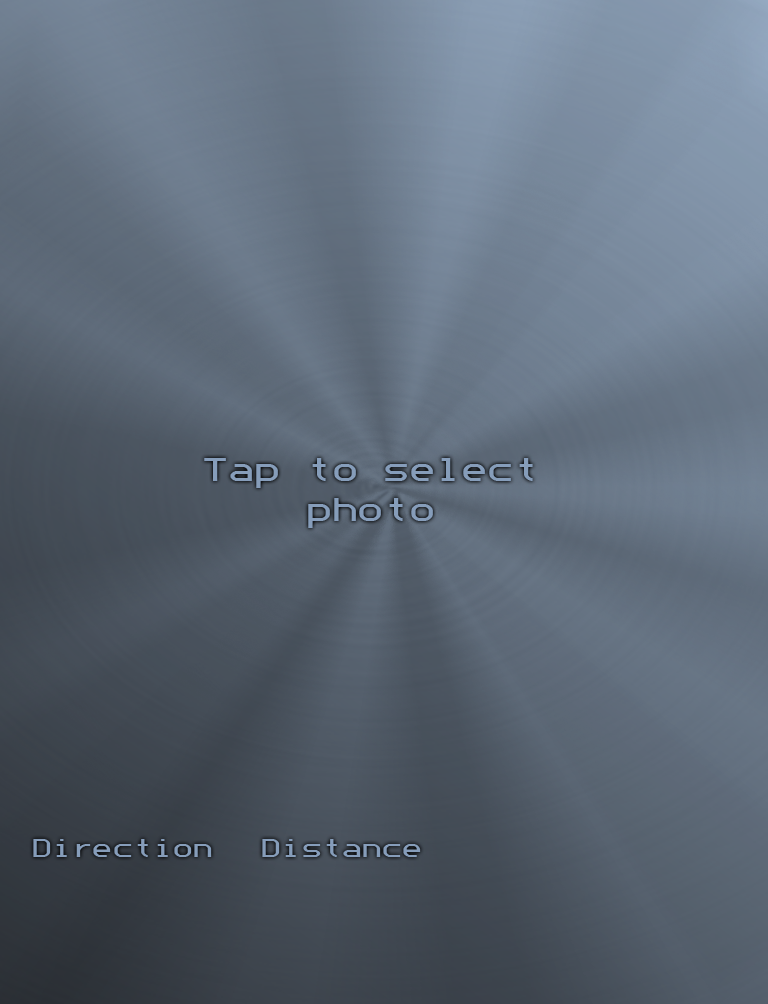
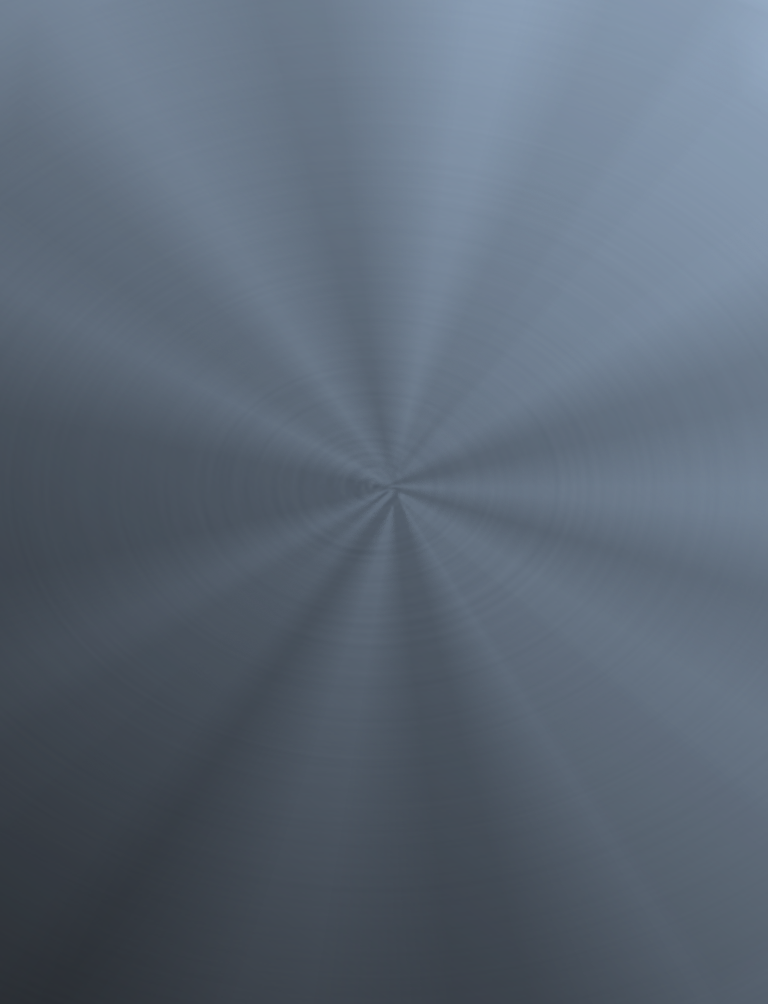
Fixed iPad layout and direction arrow.

diff --git a/Back2Photo/ViewController.m b/Back2Photo/ViewController.m
@@ -93,7 +93,7 @@
 - (void) viewDidLayoutSubviews
 {
    [super viewDidLayoutSubviews];
-   
+/*
    float fpHeight = [[UIScreen mainScreen] bounds].size.height;
    
    if (fpHeight == 480)
@@ -111,6 +111,7 @@
       CGPoint pt = imageDirection.center;
       imageDirection.center = CGPointMake(pt.x, pt.y + 88);
    }
+*/
 }
 
 
